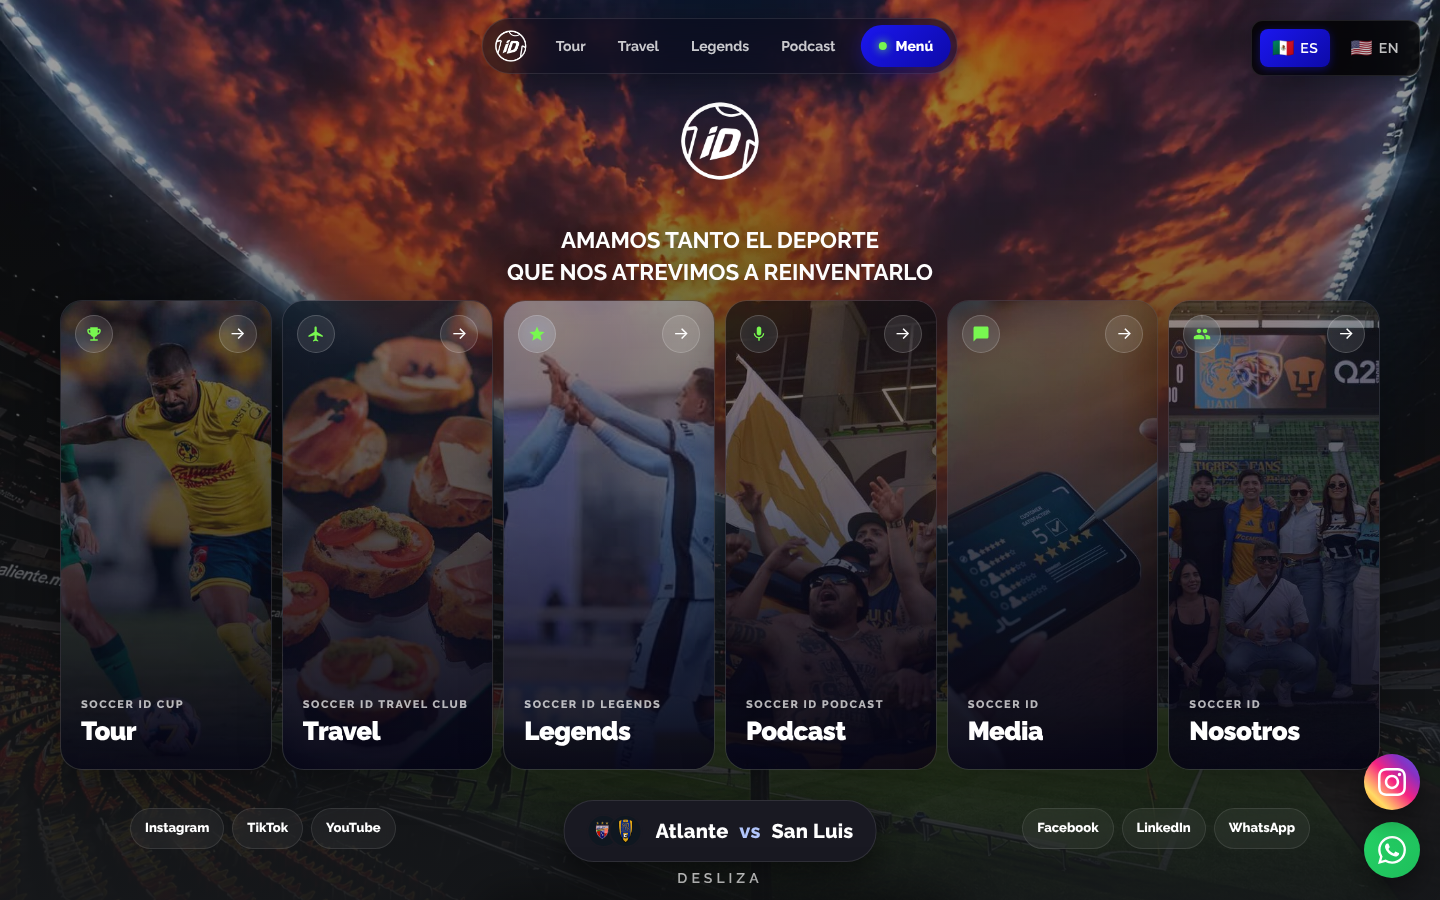
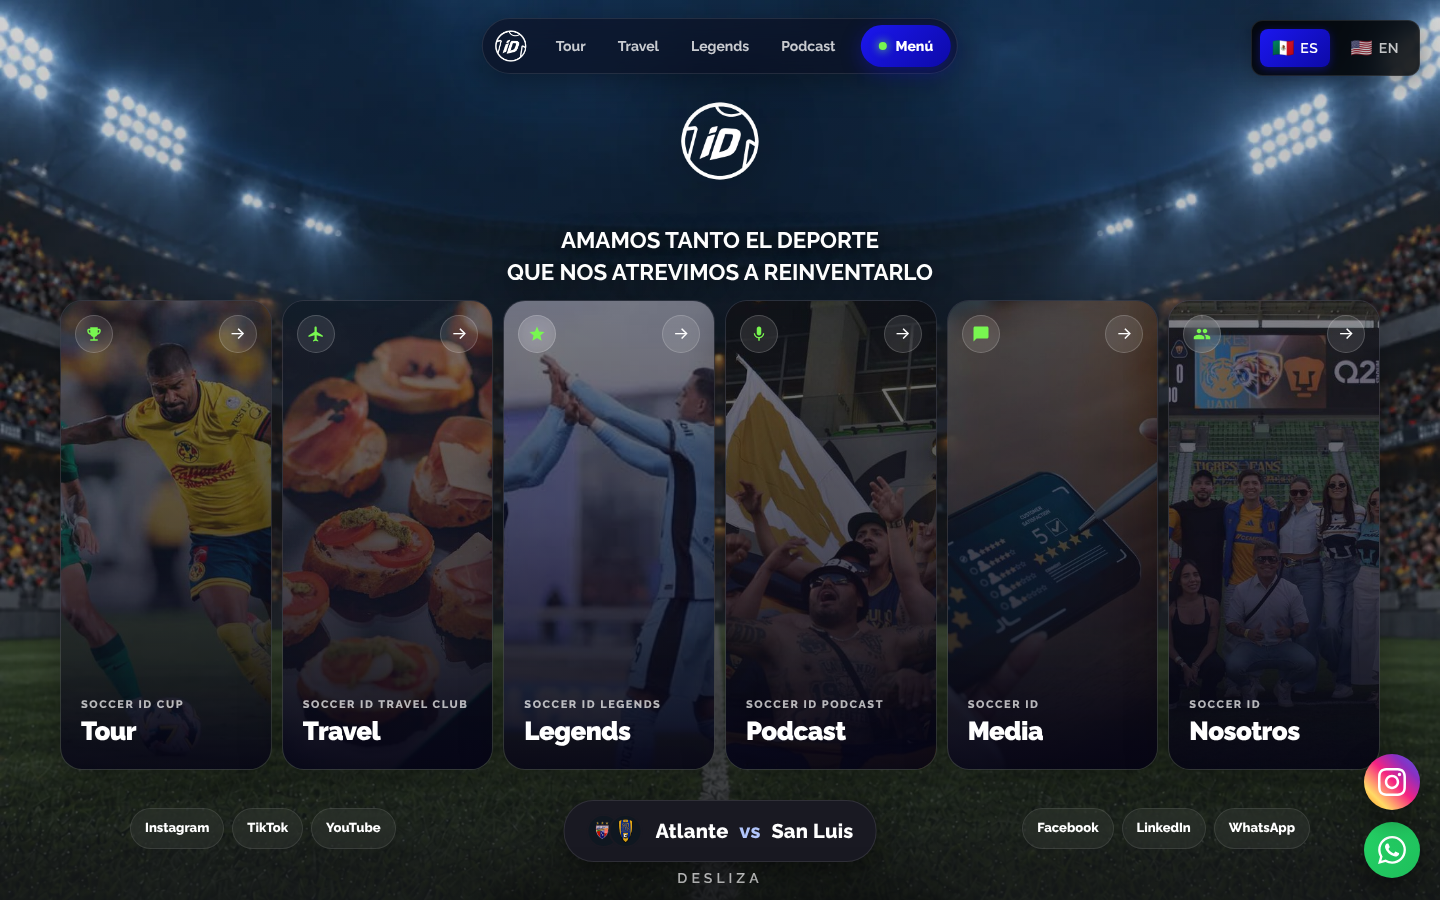
Inicio: fondo nuevo del estadio para la nueva landing
Se guarda en assets/images/fondo-estadio (jpg y webp) y entra como fondo
del hero. Como es más luminoso que la foto anterior, el velo del hero se
aclara arriba y se mantiene oscuro abajo, donde van las puertas.

Claude-Session: https://claude.ai/code/session_01TBS5J98YBvjYTTdc9XtUtE

diff --git a/assets/css/inicio.css b/assets/css/inicio.css
@@ -66,6 +66,10 @@
    primera pantalla ya lo tiene todo: no hay que bajar para elegir. */
 .hero-logo-text img { filter: drop-shadow(0 10px 30px rgba(0,0,0,0.5)); }
 .hero-section { height: auto; min-height: 100vh; align-items: flex-start; padding-top: clamp(80px, 11vh, 120px); }
+/* El fondo nuevo (fondo-estadio) es más luminoso que el anterior, así que el
+   velo original lo apagaba: se aclara arriba (el isotipo y el lema siguen
+   legibles con su sombra) y se mantiene oscuro abajo, donde van las puertas. */
+.hero-video-container::after { background: linear-gradient(180deg, rgba(22,24,27,0.18) 0%, rgba(22,24,27,0.38) 45%, rgba(22,24,27,0.88) 100%); }
 .hero-logo-text img { width: 84px; height: 84px; }
 /* El tamaño del lema en celular ya está calibrado en main.css (dos líneas
    exactas); sólo se toca en escritorio. */
